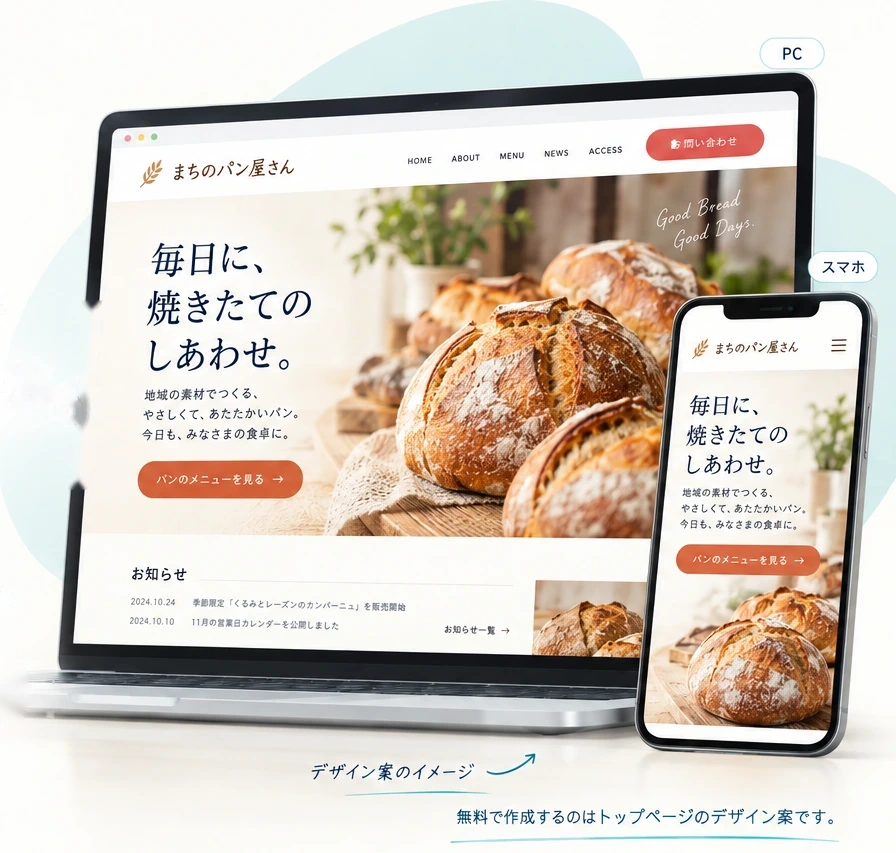
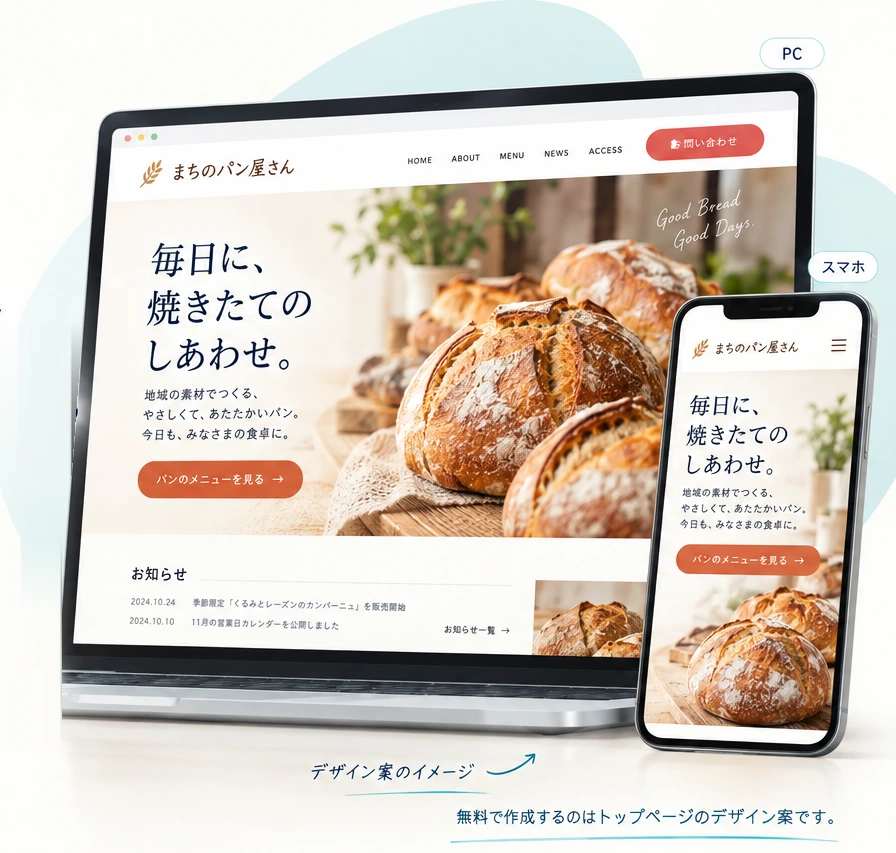
fix: プレビューページを整える（FV画像のノートPC枠を保持、スマホの改行落ち・ボタン折返し・料金表示の崩れを解消）
- fv-visual.webp: 左端の見出し残りだけを行補間で除去し、ノートPCの枠は保持
- FV見出しをスマホ幅（360px）でも3行目が収まるサイズに
- LINEボタンはスマホで「LINEで」を省き1行固定（バッジがLINEを示す）
- 料金の初期制作費・月額を両端揃えの対象外にし、（税込）はスマホで改行
- FAQの質問に読点を足して文節単位で改行
- 各セクションの余白と見出しサイズを統一、注記類は文節ごとの塊で折返し

Changed region(s): [[0.0625, 0.3353, 0.125, 0.5791], [0.0, 0.7315, 0.0938, 0.8535]]

diff --git a/src/app/preview/PreviewPage.tsx b/src/app/preview/PreviewPage.tsx
@@ -10,6 +10,7 @@ import { FadeIn } from "@/components/ui/FadeIn";
 import { serif } from "@/components/ui/SerifHeading";
 import { heavy, V4 } from "@/lib/fonts-v4";
 import { withLang, type Lang } from "@/i18n";
+import { chunks } from "@/lib/nowrap";
 import { LINE_URL, REMAINING_SLOTS, TOTAL_SLOTS } from "./copy";
 import { StickyApply } from "./StickyApply";
 import { CornerArcs } from "./Mock";
@@ -34,7 +35,7 @@ const SUB = "#3B4457";
 const ja = {
     header: { tagline: <>埼玉の小さな事業に、<br />Webで新しい景色を。</>, home: "トップページへ", cta: "無料プレビューを申し込む" },
     hero: {
-        eyebrow: "契約前に見られる、無料デザインプレビュー",
+        eyebrow: <><span className="nowrap">契約前に見られる、</span><span className="nowrap">無料デザインプレビュー</span></>,
         h1: (
             <>
                 あなたの事業の<br />
@@ -47,9 +48,9 @@ const ja = {
             <>プレビュー作成 <span className={`${heavy.className} text-[26px] md:text-[30px]`} style={{ color: CORAL }}>0</span><span className="font-bold" style={{ color: CORAL }}>円</span></>,
             <>申込だけで契約・請求なし</>,
         ],
-        cta: "LINEで無料プレビューを申し込む",
-        ctaNote: "友だち追加後、簡単なヒアリングにお答えください。",
-        terms: "正式制作は、初期0円・月額8,980円（税込）／最低契約期間1年。",
+        cta: <><span className="hidden md:inline">LINEで</span>無料プレビューを申し込む</>,
+        ctaNote: <><span className="nowrap">友だち追加後、</span><span className="nowrap">簡単なヒアリングにお答えください。</span></>,
+        terms: <><span className="nowrap">正式制作は、</span><span className="nowrap">初期0円・月額8,980円（税込）／</span><span className="nowrap">最低契約期間1年。</span></>,
         slots: `毎月${TOTAL_SLOTS}社限定・今月あと${REMAINING_SLOTS}社`,
         visualAlt: "デザイン案のイメージ：パン屋のホームページをパソコンとスマートフォンで表示した例。無料で作成するのはトップページのデザイン案です。",
     },
@@ -57,29 +58,29 @@ const ja = {
         word: "Preview",
         sub: "お届けするデザイン案",
         title: <><span style={{ color: TEAL }}>あなたの事業</span>なら、<span className="nowrap">こんなホームページに。</span></>,
-        lead: "事業の内容と、ご希望の雰囲気を反映します。",
+        lead: <><span className="nowrap">事業の内容と、</span><span className="nowrap">ご希望の雰囲気を反映します。</span></>,
         items: [
             { img: sampleCompany, alt: "工務店のホームページのデザイン案（PCとスマホ）", k: "会社", d: "信頼感と、事業の強みが伝わる。" },
             { img: sampleCafe, alt: "喫茶店のホームページのデザイン案（PCとスマホ）", k: "店舗", d: "お店の雰囲気と、こだわりを。" },
             { img: sampleMusic, alt: "音楽教室のホームページのデザイン案（PCとスマホ）", k: "教室", d: "レッスンの魅力を、わかりやすく。" },
         ],
         pill: "無料プレビューの範囲",
-        note1: "トップページのデザイン案（PC・スマホ）をお届けします。",
-        note2: "下層ページの制作・サイト公開は、正式契約後に進めます。",
+        note1: <><span className="nowrap">トップページのデザイン案（PC・スマホ）を</span><span className="nowrap">お届けします。</span></>,
+        note2: <><span className="nowrap">下層ページの制作・サイト公開は、</span><span className="nowrap">正式契約後に進めます。</span></>,
         note3: "※ 掲載画像はデザイン案のイメージです。",
     },
     flow: {
         word: "Flow",
         sub: "申し込みから受け取りまで",
         title: <>申し込みから、<span style={{ color: TEAL }}>3ステップ</span>。</>,
-        lead: "デザイン案を見てから、依頼するか決められます。",
+        lead: <><span className="nowrap">デザイン案を見てから、</span><span className="nowrap">依頼するか決められます。</span></>,
         steps: [
             { n: "01", color: CORAL, img: stepLine, t: "LINEで申し込む", d: <><span className="nowrap">友だち追加後、</span><br /><span className="nowrap">簡単なヒアリングに回答。</span></> },
             { n: "02", color: TEAL, img: stepDesign, t: "デザイン案を受け取る", d: <><span className="nowrap">必要情報が揃ってから、</span><br /><span className="nowrap"><b style={{ color: CORAL }}>3営業日以内</b>にお届け。</span></> },
             { n: "03", color: CORAL, img: stepDecide, t: "見てから、決める", d: <><span className="nowrap">内容・料金・条件を確認し、</span><br /><span className="nowrap">依頼するかご判断ください。</span></> },
         ],
-        note: "合わなければ、見送っていただいて構いません。",
-        note2: "お申し込みだけで契約・請求は発生しません。",
+        note: <><span className="nowrap">合わなければ、</span><span className="nowrap">見送っていただいて構いません。</span></>,
+        note2: <><span className="nowrap">お申し込みだけで</span><span className="nowrap">契約・請求は発生しません。</span></>,
     },
     price: {
         word: "Price",
@@ -97,7 +98,7 @@ const ja = {
         termValue: "1年間",
         billing: "課金開始：",
         billingValue: "契約日",
-        note: "※ 継続的な集客支援は、別途お見積もりです。",
+        note: <><span className="nowrap">※ 継続的な集客支援は、</span><span className="nowrap">別途お見積もりです。</span></>,
         link: "料金・サービスの詳細を見る",
     },
     faq: {
@@ -108,7 +109,7 @@ const ja = {
         items: [
             { q: "本当に無料ですか？", a: "トップページのデザイン案は無料です。正式契約前に費用は発生しません。" },
             { q: "デザイン案を見てから、断っても大丈夫ですか？", a: "はい。デザイン案と料金・条件を確認してから、ご判断いただけます。こちらから追いかける連絡もしません。" },
-            { q: "まだホームページがなくても申し込めますか？", a: "申し込めます。事業の内容と伝えたいことが分かれば、それに合った構成でお作りします。写真やロゴがなくても大丈夫です。" },
+            { q: "まだホームページがなくても、申し込めますか？", a: "申し込めます。事業の内容と伝えたいことが分かれば、それに合った構成でお作りします。写真やロゴがなくても大丈夫です。" },
             { q: "申し込みには、何を用意すればよいですか？", a: "公式LINEを追加し、ヒアリング（約1分）に答えるだけです。会社・お店・教室のお名前、作る目的、載せたい内容、あれば今のサイトやInstagramを教えてください。" },
         ],
     },
@@ -116,9 +117,9 @@ const ja = {
         eyebrow: "YOUR NEXT, TOGETHER.",
         title: <>まずは、あなたの事業の<br /><span style={{ color: TEAL }}>デザイン案</span>を見てみませんか。</>,
         lead: <><span className="nowrap">新規制作も、リニューアルも。</span><span className="nowrap">LINEからお気軽にご相談ください。</span></>,
-        button: "LINEで無料プレビューを申し込む",
-        steps: "友だち追加 → ヒアリングに回答 → デザイン案を受け取る",
-        note: "お申し込みだけで契約・請求は発生しません。",
+        button: <><span className="hidden md:inline">LINEで</span>無料プレビューを申し込む</>,
+        steps: <><span className="nowrap">友だち追加 →</span> <span className="nowrap">ヒアリングに回答 →</span> <span className="nowrap">デザイン案を受け取る</span></>,
+        note: <><span className="nowrap">お申し込みだけで</span><span className="nowrap">契約・請求は発生しません。</span></>,
     },
     footer: {
         tagline: "埼玉の小さな事業に、頼れるWeb担当を。",
@@ -164,8 +165,8 @@ function LineButton({ children, className = "", big = false }: { children: React
             style={{ backgroundColor: CORAL }}
         >
             <LineIcon big={big} />
-            {children}
-            <ArrowUpRight className="h-5 w-5" aria-hidden />
+            <span className="whitespace-nowrap">{children}</span>
+            <ArrowUpRight className="h-5 w-5 shrink-0" aria-hidden />
         </a>
     );
 }
@@ -198,14 +199,14 @@ export function PreviewPage({ lang = "ja" }: { lang?: Lang }) {
             </header>
 
             {/* FV */}
-            <section className="relative overflow-hidden px-4 pb-14 pt-8 md:px-6 md:pb-24 md:pt-12" style={{ backgroundColor: "#FEFEFC" }}>
+            <section className="relative overflow-hidden px-4 pb-16 pt-10 md:px-6 md:pb-24 md:pt-16" style={{ backgroundColor: "#FEFEFC" }}>
                 <div className="mx-auto grid max-w-[1320px] items-center gap-12 md:grid-cols-[1.06fr_1fr] md:gap-6">
                     <div>
-                        <p className="flex items-center gap-3 text-[15px] font-bold md:text-[18px]" style={{ color: CORAL }}>
-                            <span aria-hidden className="block h-px w-12" style={{ backgroundColor: CORAL }} />
-                            {t.hero.eyebrow}
+                        <p className="flex items-center gap-3 text-[14px] font-bold md:text-[18px]" style={{ color: CORAL }}>
+                            <span aria-hidden className="block h-px w-8 shrink-0 md:w-12" style={{ backgroundColor: CORAL }} />
+                            <span>{t.hero.eyebrow}</span>
                         </p>
-                        <h1 className={`${heavy.className} mt-4 text-[clamp(1.9rem,3.95vw,3.6rem)] leading-[1.22] tracking-[-0.035em]`} style={{ color: NAVY }}>
+                        <h1 className={`${heavy.className} mt-4 text-[clamp(1.5rem,7.6vw,2.4rem)] leading-[1.22] md:text-[clamp(1.9rem,3.95vw,3.6rem)] tracking-[-0.035em]`} style={{ color: NAVY }}>
                             {t.hero.h1}
                         </h1>
                         <p className="mt-5 text-[17px] leading-[1.7] md:text-[23px]" style={{ color: NAVY }}>{t.hero.lead}</p>
@@ -229,10 +230,10 @@ export function PreviewPage({ lang = "ja" }: { lang?: Lang }) {
             </section>
 
             {/* お届けするデザイン案 */}
-            <section className="px-4 py-14 md:px-6 md:py-20" style={{ backgroundColor: "#FDFBF7" }}>
+            <section className="px-4 py-16 md:px-6 md:py-24" style={{ backgroundColor: "#FDFBF7" }}>
                 <div className="mx-auto max-w-6xl">
                     <Word word={t.preview.word} sub={t.preview.sub} />
-                    <h2 className={`${heavy.className} text-[clamp(1.6rem,3.6vw,2.9rem)] leading-[1.3]`} style={{ color: NAVY }}>{t.preview.title}</h2>
+                    <h2 className={`${heavy.className} text-[clamp(1.6rem,3.6vw,2.9rem)] leading-[1.3] tracking-[-0.02em]`} style={{ color: NAVY }}>{t.preview.title}</h2>
                     <p className="mt-2 text-[15px] md:text-[17px]" style={{ color: NAVY }}>{t.preview.lead}</p>
                     <ul className="mt-9 grid gap-10 md:grid-cols-3 md:gap-8">
                         {t.preview.items.map((it, i) => (
@@ -260,10 +261,10 @@ export function PreviewPage({ lang = "ja" }: { lang?: Lang }) {
             </section>
 
             {/* 3ステップ */}
-            <section id="flow" className="px-4 py-14 md:px-6 md:py-20" style={{ backgroundColor: "#FEFDF9" }}>
+            <section id="flow" className="px-4 py-16 md:px-6 md:py-24" style={{ backgroundColor: "#FEFDF9" }}>
                 <div className="mx-auto max-w-6xl">
                     <Word word={t.flow.word} sub={t.flow.sub} />
-                    <h2 className={`${heavy.className} text-[clamp(1.7rem,4vw,3.2rem)] leading-[1.25]`} style={{ color: NAVY }}>{t.flow.title}</h2>
+                    <h2 className={`${heavy.className} text-[clamp(1.6rem,3.6vw,2.9rem)] leading-[1.3] tracking-[-0.02em]`} style={{ color: NAVY }}>{t.flow.title}</h2>
                     <p className="mt-2 text-[15px] md:text-[18px]" style={{ color: NAVY }}>{t.flow.lead}</p>
                     <ol className="mt-10 grid gap-10 md:grid-cols-[1fr_auto_1fr_auto_1fr] md:items-start md:gap-4">
                         {t.flow.steps.map((s, i) => (
@@ -295,23 +296,23 @@ export function PreviewPage({ lang = "ja" }: { lang?: Lang }) {
             </section>
 
             {/* 料金 */}
-            <section className="px-4 py-14 md:px-6 md:py-20" style={{ backgroundColor: "#F6F9FA" }}>
+            <section className="px-4 py-16 md:px-6 md:py-24" style={{ backgroundColor: "#F6F9FA" }}>
                 <div className="mx-auto max-w-6xl">
                     <Word word={t.price.word} sub={t.price.sub} />
-                    <h2 className={`${heavy.className} text-[clamp(1.7rem,4vw,3.2rem)] leading-[1.25]`} style={{ color: NAVY }}>{t.price.title}</h2>
+                    <h2 className={`${heavy.className} text-[clamp(1.6rem,3.6vw,2.9rem)] leading-[1.3] tracking-[-0.02em]`} style={{ color: NAVY }}>{t.price.title}</h2>
                     <p className="mt-3 text-[15px] leading-[1.9] md:text-[18px]" style={{ color: NAVY }}>{t.price.lead}</p>
                     <div className="mt-8 grid gap-8 md:grid-cols-2 md:gap-0">
                         <div className="md:pr-10">
                             <p className="flex items-center gap-3 text-[14px] font-bold md:text-[16px]" style={{ color: CORAL }}><span aria-hidden className="block h-px w-8" style={{ backgroundColor: CORAL }} />{t.price.leftLabel}</p>
                             <p className={`${heavy.className} mt-3 text-[26px] md:text-[34px]`} style={{ color: NAVY }}>{t.price.plan}</p>
-                            <div className="mt-4 flex items-end gap-6 md:gap-8">
-                                <div className="pr-6 md:pr-8" style={{ borderRight: "1px solid rgba(15,37,64,0.2)" }}>
-                                    <p className="text-[13px] font-bold md:text-[15px]" style={{ color: NAVY }}>{t.price.initialLabel}</p>
-                                    <p className="mt-1 leading-none" style={{ fontFamily: serif, fontWeight: 700, fontStyle: "italic", color: TEAL }}><span className="text-[64px] md:text-[80px]">0</span><span className={`${heavy.className} ml-1 text-[22px] not-italic md:text-[26px]`} style={{ color: NAVY }}>円</span></p>
+                            <div className="mt-4 flex items-end gap-5 md:gap-8">
+                                <div className="pr-5 md:pr-8" style={{ borderRight: "1px solid rgba(15,37,64,0.2)" }}>
+                                    <p className="whitespace-nowrap text-left text-[13px] font-bold md:text-[15px]" style={{ color: NAVY }}>{t.price.initialLabel}</p>
+                                    <p className="mt-1 whitespace-nowrap text-left leading-none" style={{ fontFamily: serif, fontWeight: 700, fontStyle: "italic", color: TEAL }}><span className="text-[48px] md:text-[80px]">0</span><span className={`${heavy.className} ml-1 text-[22px] not-italic md:text-[26px]`} style={{ color: NAVY }}>円</span></p>
                                 </div>
                                 <div>
-                                    <p className="text-[13px] font-bold md:text-[15px]" style={{ color: NAVY }}>{t.price.monthlyLabel}</p>
-                                    <p className="mt-1 leading-none" style={{ fontFamily: serif, fontWeight: 700, fontStyle: "italic", color: CORAL }}><span className="text-[64px] md:text-[80px]">8,980</span><span className={`${heavy.className} ml-1 text-[22px] not-italic md:text-[26px]`}>円</span><span className="ml-1 text-[13px] not-italic md:text-[15px]" style={{ color: NAVY, fontFamily: "inherit" }}>（税込）</span></p>
+                                    <p className="whitespace-nowrap text-left text-[13px] font-bold md:text-[15px]" style={{ color: NAVY }}>{t.price.monthlyLabel}</p>
+                                    <p className="mt-1 whitespace-nowrap text-left leading-none" style={{ fontFamily: serif, fontWeight: 700, fontStyle: "italic", color: CORAL }}><span className="text-[48px] md:text-[80px]">8,980</span><span className={`${heavy.className} ml-1 text-[22px] not-italic md:text-[26px]`}>円</span><span className="mt-1 block text-[12px] not-italic md:ml-1 md:mt-0 md:inline md:text-[15px]" style={{ color: NAVY, fontFamily: "inherit" }}>（税込）</span></p>
                                 </div>
                             </div>
                             <p className="mt-5 border-t pt-4 text-center text-[15px] font-bold md:text-[17px]" style={{ borderColor: "rgba(15,37,64,0.2)", color: NAVY }}>
@@ -347,19 +348,19 @@ export function PreviewPage({ lang = "ja" }: { lang?: Lang }) {
             </section>
 
             {/* FAQ */}
-            <section className="px-4 py-14 md:px-6 md:py-20" style={{ backgroundColor: CREAM }}>
+            <section className="px-4 py-16 md:px-6 md:py-24" style={{ backgroundColor: CREAM }}>
                 <div className="mx-auto max-w-6xl">
                     <div className="flex flex-col gap-2 md:flex-row md:items-start md:justify-between">
                         <Word word={t.faq.word} sub={t.faq.sub} />
                         <p className="text-[13px]" style={{ color: SUB }}>{t.faq.trust.join("　｜　")}</p>
                     </div>
-                    <h2 className={`${heavy.className} text-[clamp(1.7rem,4vw,3.2rem)] leading-[1.25]`} style={{ color: NAVY }}>{t.faq.title}</h2>
+                    <h2 className={`${heavy.className} text-[clamp(1.6rem,3.6vw,2.9rem)] leading-[1.3] tracking-[-0.02em]`} style={{ color: NAVY }}>{t.faq.title}</h2>
                     <div className="mt-6">
                         {t.faq.items.map((f, i) => (
                             <details key={f.q} open={i < 2} className="group border-b" style={{ borderColor: "rgba(15,37,64,0.2)" }}>
                                 <summary className="flex min-h-16 cursor-pointer list-none items-center gap-5 py-5 [&::-webkit-details-marker]:hidden">
                                     <span className="text-[30px] italic leading-none md:text-[36px]" style={{ fontFamily: serif, fontWeight: 700, color: CORAL }}>Q</span>
-                                    <span className={`${heavy.className} flex-1 text-[17px] md:text-[22px]`} style={{ color: NAVY }}>{f.q}</span>
+                                    <span className={`${heavy.className} flex-1 text-[16px] leading-[1.5] md:text-[21px]`} style={{ color: NAVY }}>{chunks(f.q)}</span>
                                     <span aria-hidden className="text-[28px] leading-none" style={{ color: TEAL }}><span className="group-open:hidden">＋</span><span className="hidden group-open:inline">−</span></span>
                                 </summary>
                                 <div className="mb-5 flex items-center gap-5 rounded-[6px] px-5 py-4" style={{ backgroundColor: "#E9F3F5" }}>
@@ -378,7 +379,7 @@ export function PreviewPage({ lang = "ja" }: { lang?: Lang }) {
                 <div className="relative mx-auto max-w-3xl text-center">
                     <p className="text-[13px] tracking-[0.3em] md:text-[15px]" style={{ color: TEAL }}>{t.cta.eyebrow}</p>
                     <span aria-hidden className="mx-auto mt-3 block h-[2px] w-16" style={{ backgroundColor: CORAL }} />
-                    <h2 className={`${heavy.className} mt-7 text-[clamp(1.7rem,4vw,3.2rem)] leading-[1.3]`} style={{ color: NAVY }}>{t.cta.title}</h2>
+                    <h2 className={`${heavy.className} mt-7 text-[clamp(1.6rem,3.6vw,2.9rem)] leading-[1.35] tracking-[-0.02em]`} style={{ color: NAVY }}>{t.cta.title}</h2>
                     <p className="mt-5 text-[15px] md:text-[18px]" style={{ color: NAVY }}>{t.cta.lead}</p>
                     <LineButton className="mt-8 w-full sm:w-auto sm:px-12">{t.cta.button}</LineButton>
                     <p className="mt-6 text-[14px] md:text-[16px]" style={{ color: NAVY }}>{t.cta.steps}</p>
